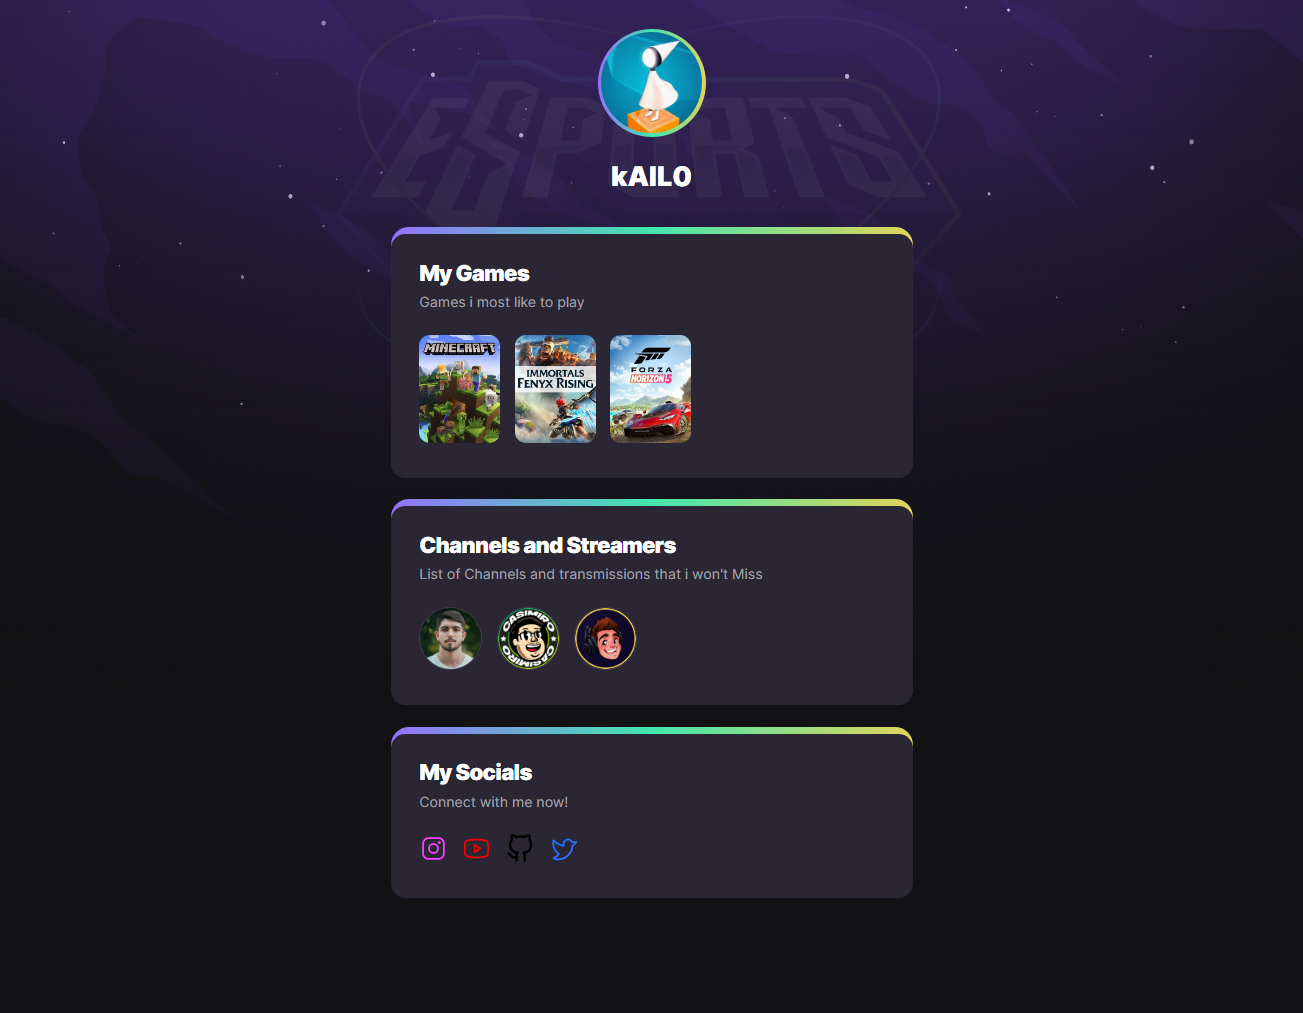
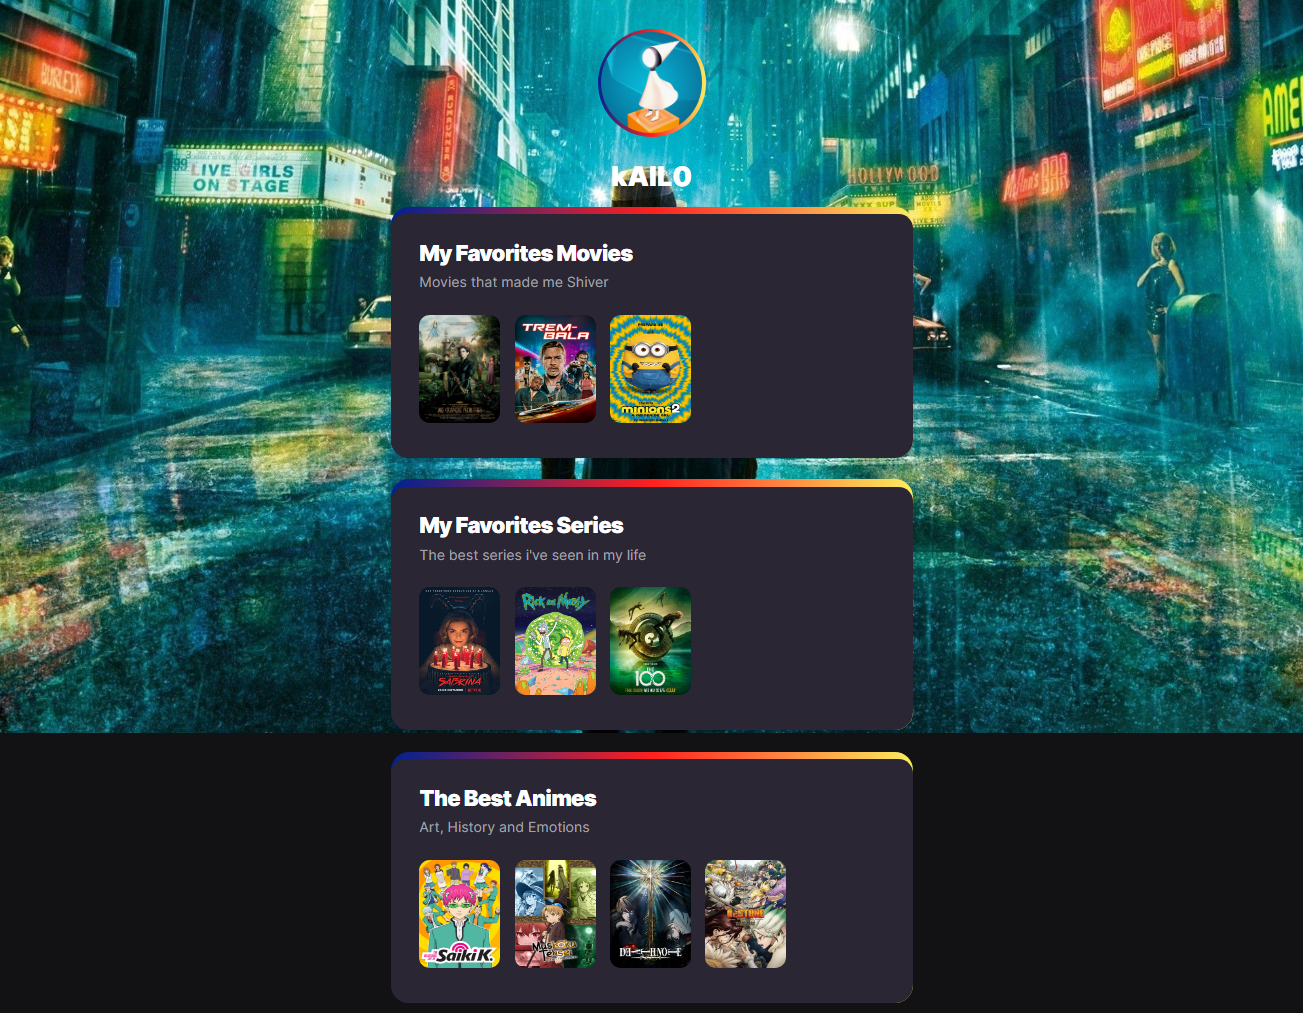
launchSkin

diff --git a/index.html b/index.html
@@ -7,7 +7,7 @@
     <!-- <meta http-equiv="X-UA-Compatible" content="IE=edge"> -->
     <meta name="viewport" content="width=device-width, initial-scale=1.0">
 
-    <title>NLW eSports</title>
+    <title>NLW Movies</title>
 
     <link rel="stylesheet" href="style.css">
 
